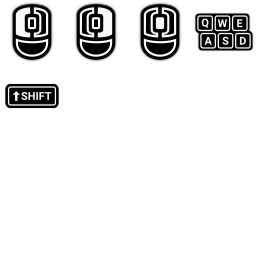
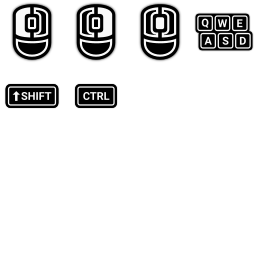
Change left-shift -> left-ctrl

Changed region(s): [[0.2812, 0.3125, 0.4688, 0.4375]]

diff --git a/Assets/Scripts/Misc/Ui/Juice/MakeCanvasGroupVisibleOnHoverAndCursorMovement.cs b/Assets/Scripts/Misc/Ui/Juice/MakeCanvasGroupVisibleOnHoverAndCursorMovement.cs
@@ -15,7 +15,7 @@ public class MakeCanvasGroupVisibleOnHoverAndCursorMovement : ReactiveBehaviour
 	private Vector3 _lastMousePosition;
 	private float _lastMovementTime;
 	const float CURSOR_MOVE_TIME = 1.8f;
-	const float CURSOR_MOVE_TIME_NO_UI = 0.9f;
+	const float CURSOR_MOVE_TIME_NO_UI = 0.5f;
 
 	private void Awake()
 	{

diff --git a/Assets/Scripts/Entities/Character/Creator/Pose/UiVisibility/ToggleCharacterCreatorVisibilityOnKeyDown.cs b/Assets/Scripts/Entities/Character/Creator/Pose/UiVisibility/ToggleCharacterCreatorVisibilityOnKeyDown.cs
@@ -21,7 +21,7 @@ namespace Character.Creator.UI
 			bool isVisible = _visibilityControl.IsVisible.Val;
 			if (isPoseMode || !isVisible)
 			{
-				if (Input.GetKeyDown(KeyCode.LeftShift))
+				if (Input.GetKeyDown(KeyCode.LeftControl))
 				{
 					_visibilityControl.Toggle();
 				}
